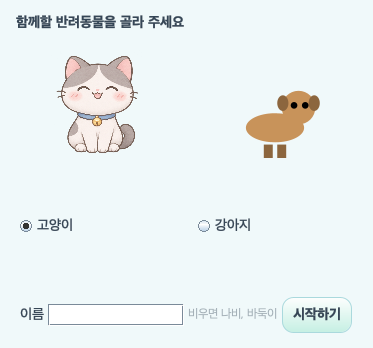
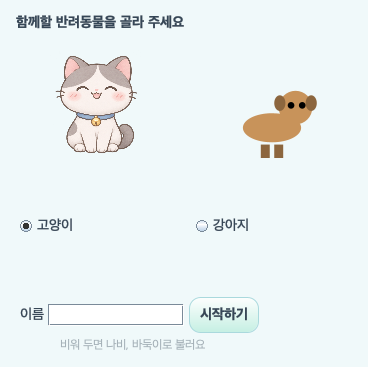
fix(prototype): 반려동물 이름 안내를 05 문장으로 칸 아래에 둠 (#71)

diff --git a/prototype/src/planningpet/proto/PickDialog.java b/prototype/src/planningpet/proto/PickDialog.java
@@ -35,7 +35,12 @@ public final class PickDialog {
         panel.setBorder(BorderFactory.createEmptyBorder(14, 16, 14, 16));
         panel.add(new JLabel("<html><b>함께할 반려동물을 골라 주세요</b></html>"), BorderLayout.NORTH);
         panel.add(animals, BorderLayout.CENTER);
-        panel.add(Ui.flow(new JLabel("이름"), name, Ui.hint("비우면 나비, 바둑이"), start), BorderLayout.SOUTH);
+        JPanel bottom = new JPanel(new BorderLayout(0, 2));
+        bottom.add(Ui.flow(new JLabel("이름"), name, start), BorderLayout.NORTH);
+        JLabel hint = Ui.hint("비워 두면 나비, 바둑이로 불러요");
+        hint.setBorder(BorderFactory.createEmptyBorder(0, 44, 0, 0));
+        bottom.add(hint, BorderLayout.SOUTH);
+        panel.add(bottom, BorderLayout.SOUTH);
     }
 
     /** 시작하기 버튼과 같다. 고른 동물과 이름(비우면 나비, 바둑이)을 넣는다. */
